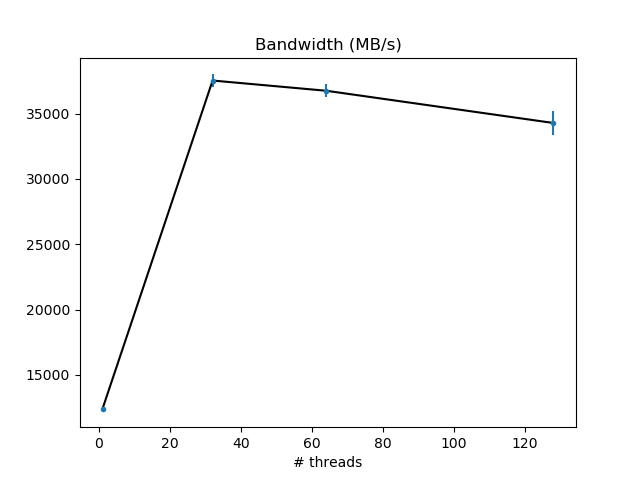
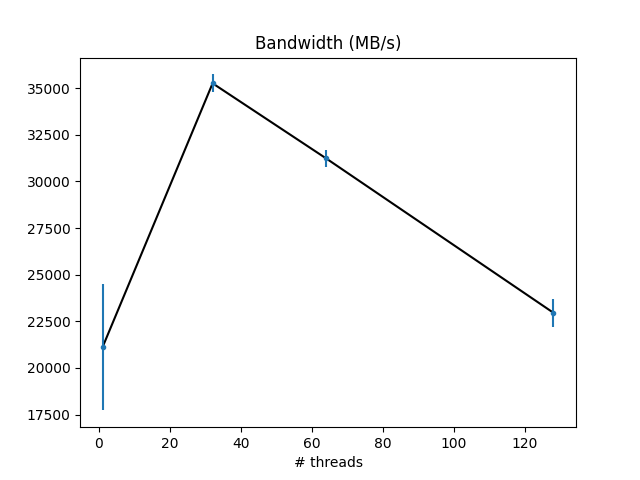
updated task2

diff --git a/Assignment2/task2/record.py b/Assignment2/task2/record.py
@@ -1,11 +1,13 @@
 
-averages = []
-
-with open("./results.txt", "r") as file:
-    for i,n in enumerate(file):
-       if i in (26,27,28,29):
-           averages.append(n.split()[1])
-
-with open("./avg.csv", "a") as file:
-    file.writelines(",".join(averages))
-    file.writelines("\n")
+for n in [1,32,64,128]:
+    for i in range(5):
+        print(n,i+1)
+        with open(f"./results/results_{n}_{i+1}.txt", "r") as file:
+            averages = []
+            for k,l in enumerate(file):
+                if k in (26,27,28,29):
+                    averages.append(l.split()[1])
+        file.close()
+        with open("./avg.csv", "a") as file:
+            file.writelines(",".join(averages))
+            file.writelines("\n")

diff --git a/Assignment2/task2/plot_results.py b/Assignment2/task2/plot_results.py
@@ -1,6 +1,7 @@
 from matplotlib import pyplot as plt
 import numpy as np
 
+
 data = np.genfromtxt('avg.csv', delimiter=',')
 cases = [1,32,64,128]
 data = np.reshape(data, (-1,5,4))
